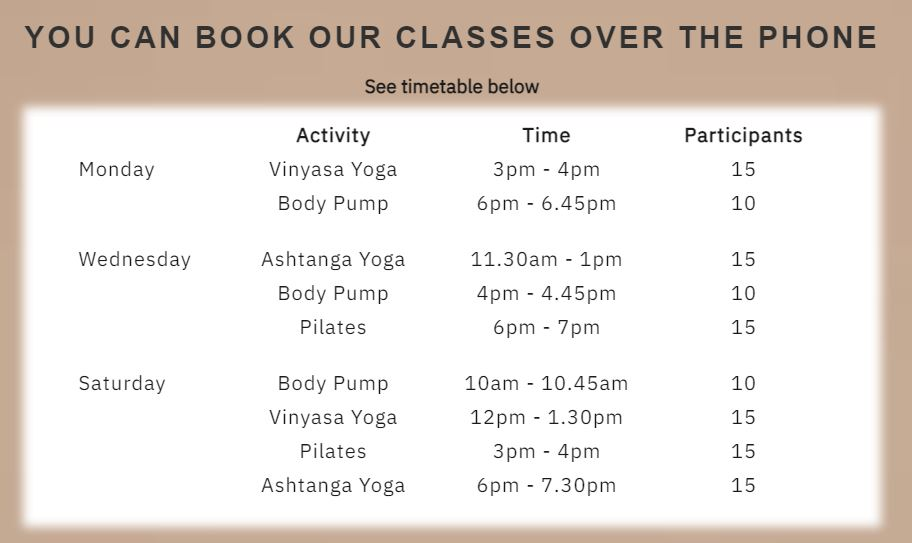
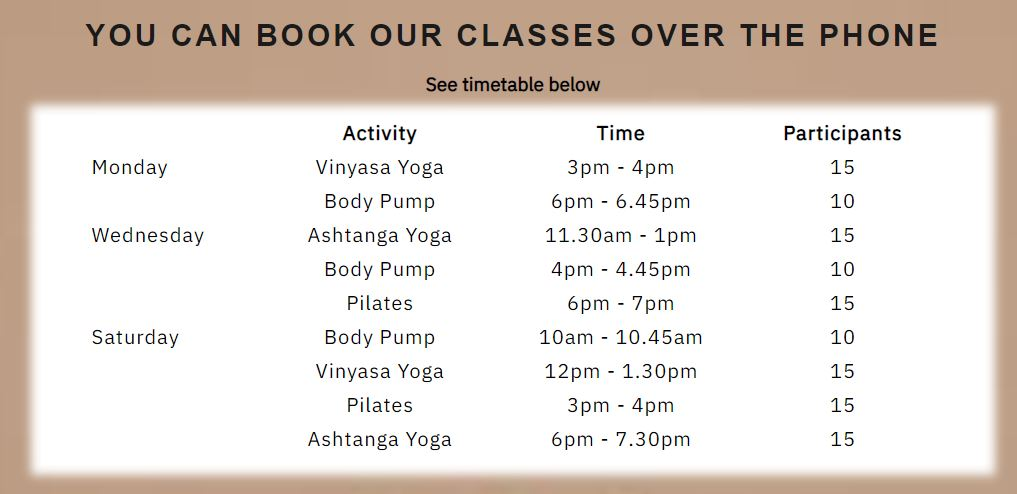
Final changes - final push!

diff --git a/classes.html b/classes.html
@@ -40,10 +40,11 @@
             <!-- classes timetable -->
             <div id="table-div">
                 <table class="timetable">
-                    <tr><th>&nbsp;</th>
-                    <th>Activity</th>
-                    <th>Time</th>
-                    <th>Participants</th>
+                    <tr>
+                        <th>&nbsp;</th>
+                        <th>Activity</th>
+                        <th>Time</th>
+                        <th>Participants</th>
                     </tr>
 
                     <!-- Mon first row -->
@@ -63,9 +64,6 @@
 
                     </tr>
 
-                    <!-- <tr class="blank-row" colspan=4>&nbsp;
-                    </tr> -->
-
                     <!-- Wed first row -->
                     <tr>
                         <td>Wednesday</td>
@@ -82,7 +80,6 @@
                         <td class="participants">10</td>
                     </tr>
 
-
                     <!-- Wed third row -->
                     <tr>
                         <td></td>
@@ -90,9 +87,6 @@
                         <td class="time">6pm - 7pm</td>
                         <td class="participants">15</td>
                     </tr>
-
-                    <!-- <tr class="blank-row" colspan=4>&nbsp;
-                    </tr> -->
 
                     <!-- Sat first row -->
                     <tr>

diff --git a/assets/css/style.css b/assets/css/style.css
@@ -401,10 +401,6 @@
         letter-spacing: 1px;       
     }
       
-    /* .blank-row{
-        height: 20px;
-    } */
-      
     .activity{
        text-align: center;
     }
@@ -419,7 +415,7 @@
     
     #table-div{
         width: 60% ;
-        height: 400px;
+        height: 350px;
         background-color: white;
         margin: auto;
         box-shadow: 0 0 10px 10px white;
@@ -822,10 +818,6 @@
     }
 
 /*   CLASSES  1050  */
-
-    #table-div{
-        height: 450px;
-    }
 
     #gallery {
         column-count: 3;

diff --git a/README.md b/README.md
@@ -374,7 +374,7 @@ Most media images were sourced from [Pexels](https://www.pexels.com/) website.
 
 Credits to: 
 
-* Caresse Resort and Spa [Main Image](https://www.marriott.com/hotels/hotel-information/fitness-center/details/bjvlc-caresse-a-luxury-collection-resort-and-spa-bodrum/5982778/)
+* Marriot Gym [Main Image](https://www.marriott.com.au/hotels/hotel-information/fitness-center/hydlk-itc-kohenur-a-luxury-collection-hotel-hyderabad/)
 * @goumbik
 * @monstera
 * @victorfreitas
